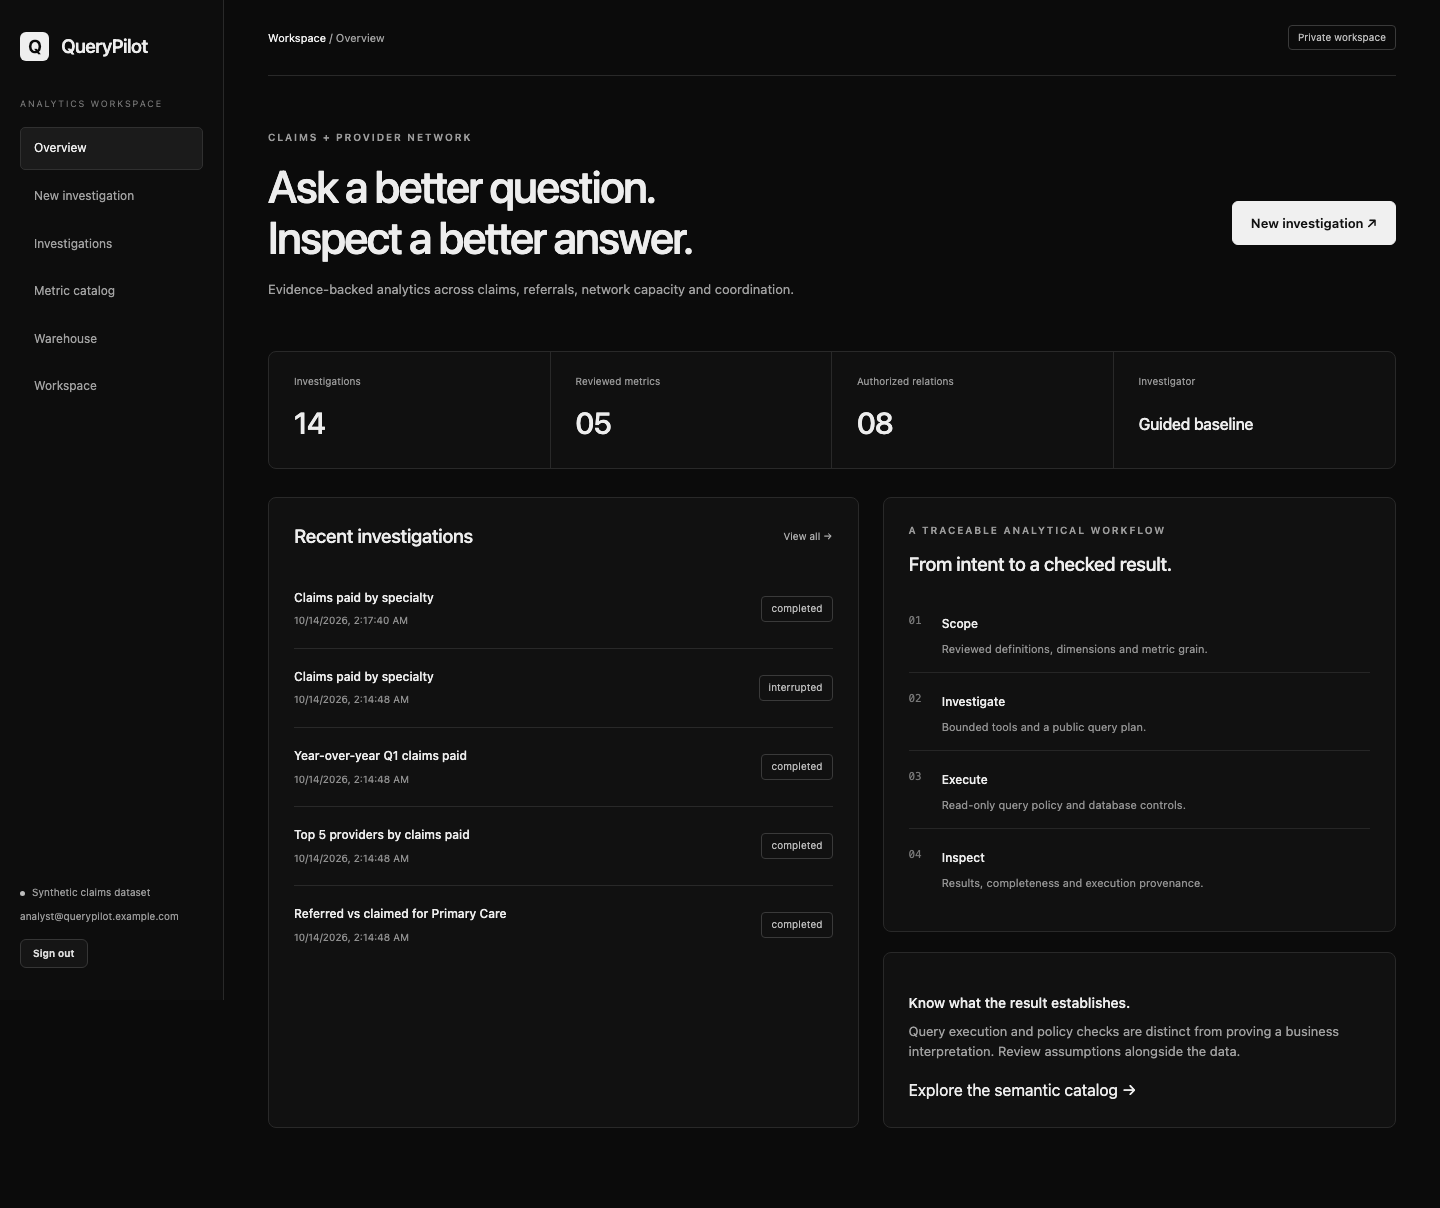
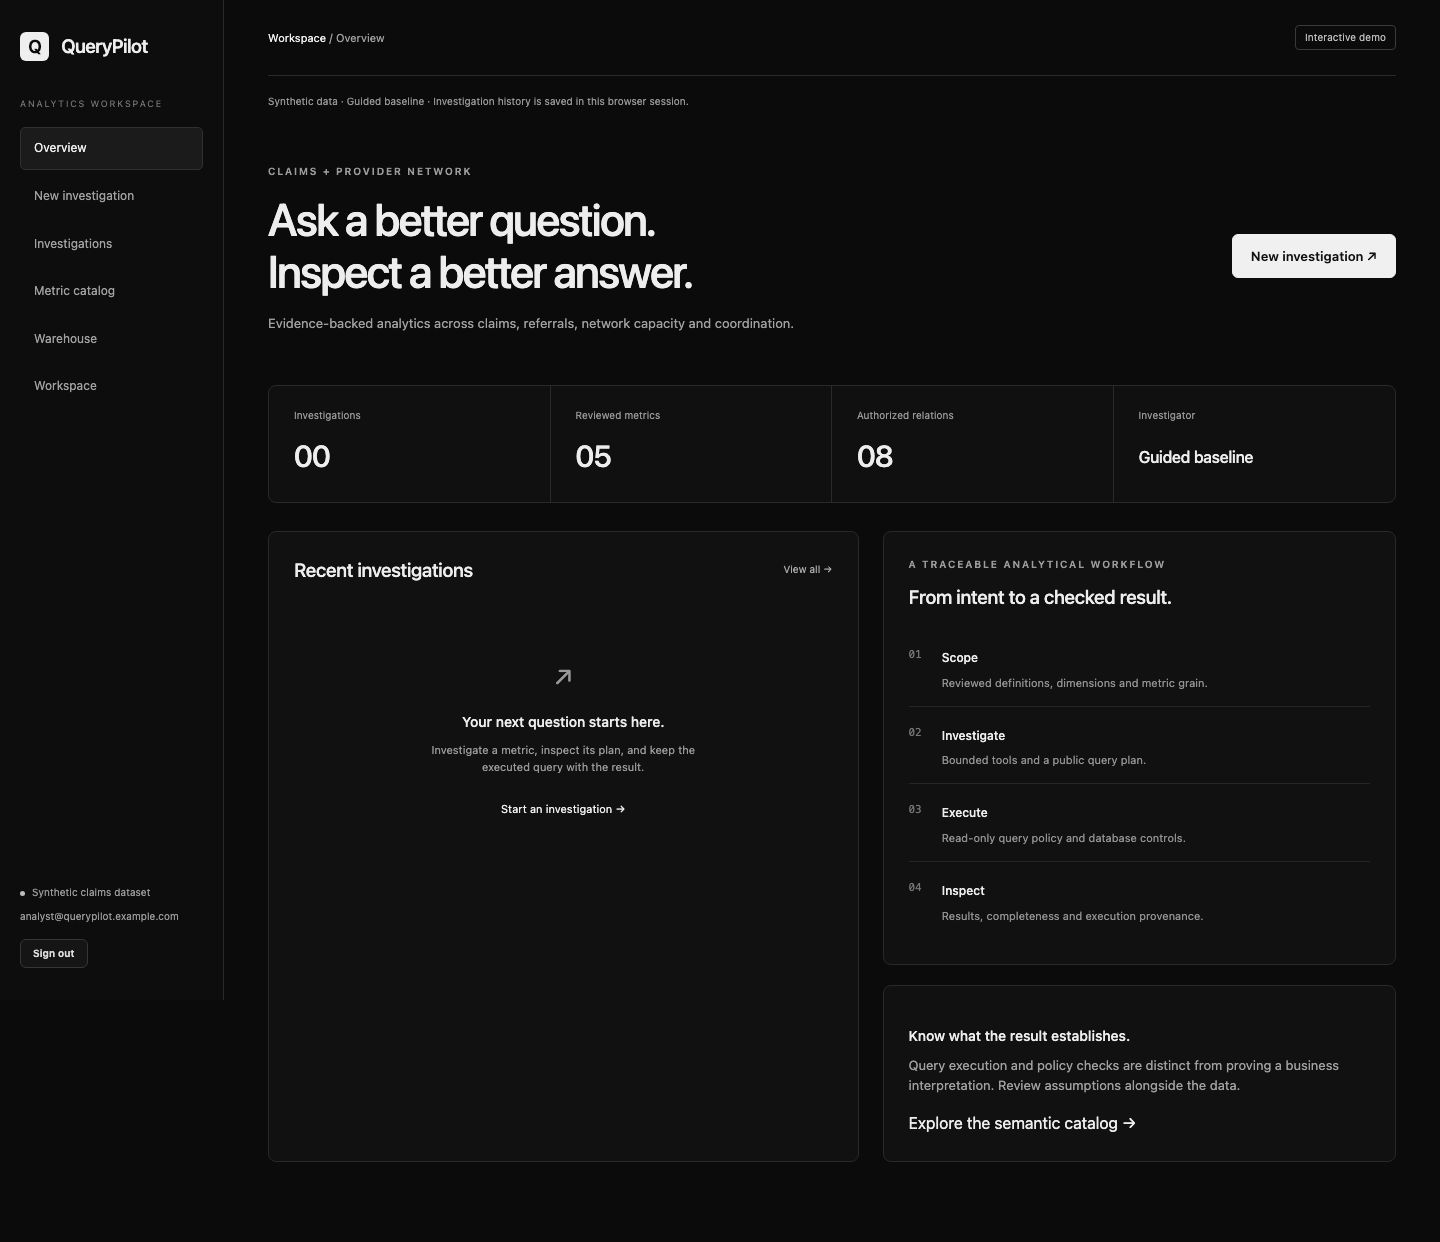
fix(security): restrict custom SQL functions and verify public demo delivery

diff --git a/scripts/browser_smoke.py b/scripts/browser_smoke.py
@@ -3,7 +3,7 @@
 import argparse
 import json
 from pathlib import Path
-from playwright.sync_api import sync_playwright
+from playwright.sync_api import sync_playwright, expect
 
 parser = argparse.ArgumentParser()
 parser.add_argument("--url", default="http://127.0.0.1:3007")
@@ -37,6 +37,9 @@ with sync_playwright() as p:
     assert "result_sha256" in page.get_by_role("dialog").inner_text()
     page.keyboard.press("Escape")
     assert page.get_by_role("dialog").count() == 0
+    assert page.get_by_role("button", name="Inspect record").evaluate(
+        "el => document.activeElement === el"
+    )
     page.get_by_role("link", name="Investigations", exact=True).first.click()
     page.get_by_role("link", name="Claims paid by specialty").first.click()
     page.get_by_role("button", name="Inspect record").wait_for()
@@ -47,23 +50,24 @@ with sync_playwright() as p:
     page.screenshot(path=str(output / "mobile.png"), full_page=True)
     page.get_by_role("link", name="Metric catalog").click()
     page.get_by_role("heading", name="Start with a definition.").wait_for()
-    assert page.locator(".metric-grid article").count() == 5
+    expect(page.locator(".metric-grid article")).to_have_count(5, timeout=15000)
     assert not errors, errors
     browser.close()
-print(
-    json.dumps(
-        {
-            "browser": "Chromium",
-            "analyst_journey": True,
-            "rows": 5,
-            "sql": True,
-            "plan": True,
-            "dialog_escape": True,
-            "reload_history": True,
-            "mobile_overflow": False,
-            "metric_contracts": 5,
-            "page_errors": errors,
-            "paid_model_calls": 0,
-        }
-    )
+report = json.dumps(
+    {
+        "browser": "Chromium",
+        "analyst_journey": True,
+        "rows": 5,
+        "sql": True,
+        "plan": True,
+        "dialog_escape": True,
+        "reload_history": True,
+        "mobile_overflow": False,
+        "metric_contracts": 5,
+        "page_errors": errors,
+        "paid_model_calls": 0,
+    }
 )
+
+Path("artifacts/generated/browser-report.json").write_text(report + "\n")
+print(report)

diff --git a/scripts/postgres_rehearsal.py b/scripts/postgres_rehearsal.py
@@ -24,6 +24,32 @@ with Session(db.engine) as session:
     analyst = session.scalar(select(User).where(User.role == "analyst")).id
     admin = session.scalar(select(User).where(User.role == "admin")).id
 # Rehearsal uses a new namespace, without deleting existing warehouse or user records.
+custom_function_denial = False
+if os.getenv("MIGRATION_DATABASE_URL"):
+    from sqlalchemy import create_engine
+
+    owner_engine = create_engine(os.environ["MIGRATION_DATABASE_URL"])
+    try:
+        with owner_engine.begin() as conn:
+            conn.execute(
+                text(
+                    "CREATE FUNCTION public.querypilot_rehearsal_probe() RETURNS text LANGUAGE SQL SECURITY DEFINER SET search_path=pg_catalog,public AS 'SELECT email FROM public.users ORDER BY id LIMIT 1'"
+                )
+            )
+        try:
+            verify_warehouse_role(db.warehouse_engine)
+        except RuntimeError:
+            custom_function_denial = True
+        else:
+            raise AssertionError("Executable custom definer function was not rejected")
+    finally:
+        with owner_engine.begin() as conn:
+            conn.execute(
+                text("DROP FUNCTION IF EXISTS public.querypilot_rehearsal_probe()")
+            )
+        owner_engine.dispose()
+    verify_warehouse_role(db.warehouse_engine)
+
 namespace = "rehearsal-" + str(time.time_ns())
 repo = RunRepository(db.engine)
 runs = [
@@ -101,6 +127,7 @@ report = {
     "workers": 4,
     "worker_claims": workers,
     "database_role_denials": 3,
+    "custom_function_denial": custom_function_denial,
     "cross_user_denial": True,
     "idempotency": True,
     "lease_fencing": True,

diff --git a/backend/app/production_checks.py b/backend/app/production_checks.py
@@ -6,6 +6,19 @@ from .agent.catalog import WAREHOUSE_TABLES
 
 def verify_warehouse_role(engine):
     with engine.connect() as connection:
+        if connection.execute(
+            text("SELECT has_schema_privilege(current_user,'public','CREATE')")
+        ).scalar_one():
+            raise RuntimeError("Warehouse role must not create warehouse objects")
+        custom = connection.execute(
+            text(
+                "SELECT EXISTS (SELECT 1 FROM pg_proc p JOIN pg_namespace n ON n.oid=p.pronamespace WHERE n.nspname='public' AND has_function_privilege(current_user,p.oid,'EXECUTE'))"
+            )
+        ).scalar_one()
+        if custom:
+            raise RuntimeError(
+                "Custom executable warehouse functions require separate review and are not enabled"
+            )
         superuser, bypass = connection.execute(
             text(
                 "SELECT rolsuper,rolbypassrls FROM pg_roles WHERE rolname=current_user"

diff --git a/backend/app/agent/guardrails.py b/backend/app/agent/guardrails.py
@@ -91,7 +91,12 @@ def validate_sql(
     for with_node in tree.find_all(exp.With):
         if with_node.args.get("recursive"):
             raise GuardrailError("Recursive queries are outside the analytical budget")
+    for datatype in tree.find_all(exp.DataType):
+        if datatype.this == exp.DataType.Type.USERDEFINED:
+            raise GuardrailError("Custom types are outside the analytical allowlist")
     for function in tree.find_all(exp.Func):
+        if isinstance(function.parent, exp.Dot):
+            raise GuardrailError("Schema-qualified functions are not authorized")
         name = (
             function.name.upper()
             if isinstance(function, exp.Anonymous)

diff --git a/backend/tests/test_workbench.py b/backend/tests/test_workbench.py
@@ -24,6 +24,8 @@ from app.worker import process_one
 @pytest.mark.parametrize(
     "sql",
     [
+        "SELECT evil.sum(claims_paid_usd) FROM fact_claims",
+        "SELECT CAST(claims_paid_usd AS eviltype) FROM fact_claims",
         'SELECT * FROM "users"',
         "SELECT * FROM analysis_runs",
         "SELECT * FROM rate_windows",

diff --git a/PROGRESS.md b/PROGRESS.md
@@ -7,3 +7,9 @@ Original main 449398c: 30 backend tests and frontend build pass. Preserved origi
 Local upgraded verification: 12/12 known cases through the new LangGraph flow on actual PostgreSQL; four concurrent worker claimants, all 12 cases completed; three real database role denial checks; idempotency, cross-user history denial, stale lease fencing and application-session recovery pass. Actual Chromium analyst journey passes: five-row result, SQL and public plan, execution-hash drawer with Escape/focus behavior, retained history after reload, five metric cards and no mobile overflow or page errors. Frontend build passes and npm audit reports zero vulnerabilities after explicit dependency upgrades.
 
 OpenTelemetry exports only operational span attributes; provider mock-transport tests make zero paid requests. Live model benchmark and persistent monitored cloud operation remain unverified. See PLAN for active publication gates; final commit/CI/deployment evidence is appended after verification.
+
+Actual [PR CI38523033934](https://github.com/Akhilesh-Vangala/querypilot/actions/runs/38523033934) passes all required native/frontend/container jobs at b807b04. Container runtime and tests built/run;72tests also pass inside containers. Real Compose PostgreSQL role/4worker rehearsal, Chromium and API restart with preserved history all pass; downloaded reports retained locally. Initial YAML quote and Linux-only greenlet lock resolution failures were fixed and rerun without weakening hash verification.
+
+Public synthetic demo deployed at https://querypilot-five.vercel.app. Preview API cookie login/query/five-row evidence/shared-history isolation pass. Final public browser/main-bound promotion checks and protected merge follow. Security follow-up blocks qualified custom functions/types and checks for executable custom public functions, strengthening the approved-builtins boundary. This does not add live-model or persistent-cloud claims.
+
+Public [Vercel demo](https://querypilot-five.vercel.app) now passes actual Chromium analyst/result/SQL/public-plan/provenance-dialog/Escape/focus-return/history-reload/mobile/catalog checks, with no page errors. External HTTP also verifies readiness, cookie login, five-row query, denied shared histories and HTTP503 for requested live mode. README captures now come from the real public demo, still explicitly deterministic/synthetic. Native suite74tests and actual PostgreSQL custom-function-role-denial check pass after the security follow-up. Final protected-head CI and main publication remain pending.

diff --git a/docs/ARCHITECTURE.md b/docs/ARCHITECTURE.md
@@ -37,7 +37,7 @@ flowchart TD
 1. **Scope:** authorized relation metadata and five reviewed metric contracts. PostgreSQL relation sizes are estimates; previews use the same read-only execution boundary as analytical queries.
 2. **Plan:** native `record_plan` declares objective, approved metric identifiers, assumptions and checks. This is a public analysis artifact, not hidden chain of thought. The deterministic comparator creates a clearly labeled development plan itself.
 3. **Investigate:** tools are strictly allowlisted. Local schema validation remains required even when native function schemas are strict. Invalid SQL/actions produce at most two corrective opportunities; repeated identical actions and round/query ceilings prevent runaway loops.
-4. **Execute:** AST relation/function scope, separate connection, read-only transaction, restricted PostgreSQL role, statement timeout and bounded output. Joining two raw facts at the same scope is rejected; aggregate them first. This rule prevents one common fan-out pattern, not every possible semantic join mistake.
+4. **Execute:** AST relation/function scope with qualified functions/custom types refused, startup denial of unreviewed executable custom public functions, separate connection, read-only transaction, restricted PostgreSQL role, statement timeout and bounded output. Joining two raw facts at the same scope is rejected; aggregate them first. This rule prevents one common fan-out pattern, not every possible semantic join mistake.
 5. **Publish:** the exact final query must have an execution receipt in this run. Receipt reuse avoids duplicate identical execution. Rows determine the displayed numeric summary; metadata includes SQL, conservative truncation flag, result hash, attempts, public events, elapsed time and SDK token usage.
 
 ## Defaults and limitations

diff --git a/README.md b/README.md
@@ -10,7 +10,7 @@
 
 **An agentic analytics workbench for claims and provider-network operations.** Ask a business question, inspect its public metric plan, execute a bounded read-only query, and retain the evidence behind the result.
 
-**[Architecture](docs/ARCHITECTURE.md) · [Evaluation](docs/EVALUATION.md) · [Deployment](docs/DEPLOYMENT.md) · [Tradeoffs](docs/DECISIONS.md) · [Progress](PROGRESS.md)**
+**[Open the live synthetic demo](https://querypilot-five.vercel.app) · [Architecture](docs/ARCHITECTURE.md) · [Evaluation](docs/EVALUATION.md) · [Deployment](docs/DEPLOYMENT.md) · [Tradeoffs](docs/DECISIONS.md) · [Progress](PROGRESS.md)**
 
 ## The business problem
 
@@ -69,7 +69,7 @@ For native Python 3.13 development, install hashed dependencies from `backend/re
 | Check | Recorded local result |
 | --- | --- |
 | Original baseline | 30 backend tests passed before changes |
-| Expanded policy/workflow/SDK/API suite | 72 tests passed; mocked transport, no paid calls |
+| Expanded policy/workflow/SDK/API suite | 74 tests passed; mocked transport, no paid calls |
 | New graph on real PostgreSQL | 12/12 known development cases match independent gold results |
 | Concurrent workers | Four claimants complete 12 queued cases; idempotency and stale-owner fencing pass |
 | Independent database authority | Reader cannot read app identities or write warehouse; app role cannot read facts |

diff --git a/PLAN.md b/PLAN.md
@@ -7,8 +7,10 @@
 - [x] Rebuild the monochrome product interface with overview, investigations, detail tabs, catalog, warehouse and workspace pages.
 - [x] Verify actual PostgreSQL four-worker execution, database role denial and browser journey locally.
 - [x] Prepare hashed dependencies, non-root Docker/Compose, benchmark CLI and OTLP integration.
-- [ ] Pass actual remote CI/container/restart checks and merge protected PR.
-- [ ] Verify and publish the interactive Vercel synthetic demo.
+- [x] Pass actual remote CI/container/restart checks on implementation head.
+- [ ] Merge the final protected PR and verify current-main CI.
+- [x] Verify the public Vercel browser journey, guarded SQL and browser-only history.
+- [ ] Verify final current-main deployment after protected merge.
 - [ ] Configure a persistent cloud provider and monitored private staging.
 - [ ] Run live model regression/held-out quality and cost comparisons.
 - [ ] Complete customer-release gates in docs/DEPLOYMENT.md.
